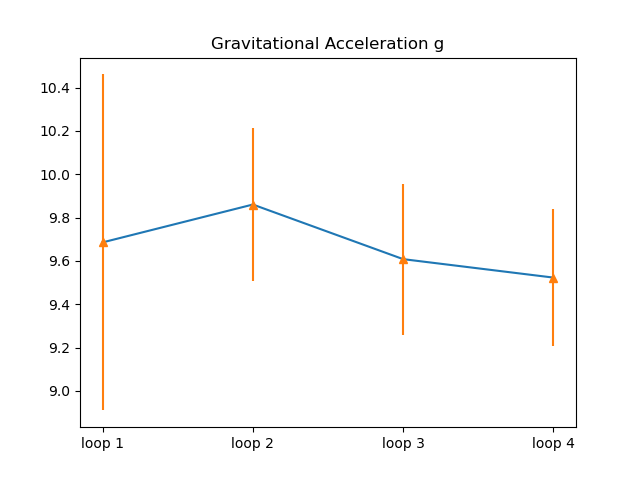
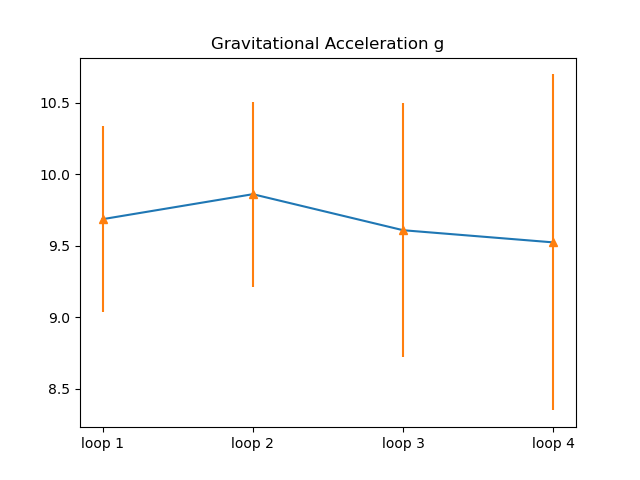
correct Propagation of error mistake

diff --git a/intro/loop.py b/intro/loop.py
@@ -91,7 +91,7 @@ for i in range(4):
 
 diameter = np.array([45.1, 21, 10.7, 5.5]) / 100
 g = diameter / (global_mean / (2 * np.pi)) ** 2
-g_std = (g * 2 * global_std_error) ** 2  # Propagation of error using 1st order taylor expansion
+g_std = g * 2 * global_std_error/global_mean  # Propagation of error using 1st order taylor expansion
 
 fig, ax = plt.subplots()
 ax.plot(x, g)
